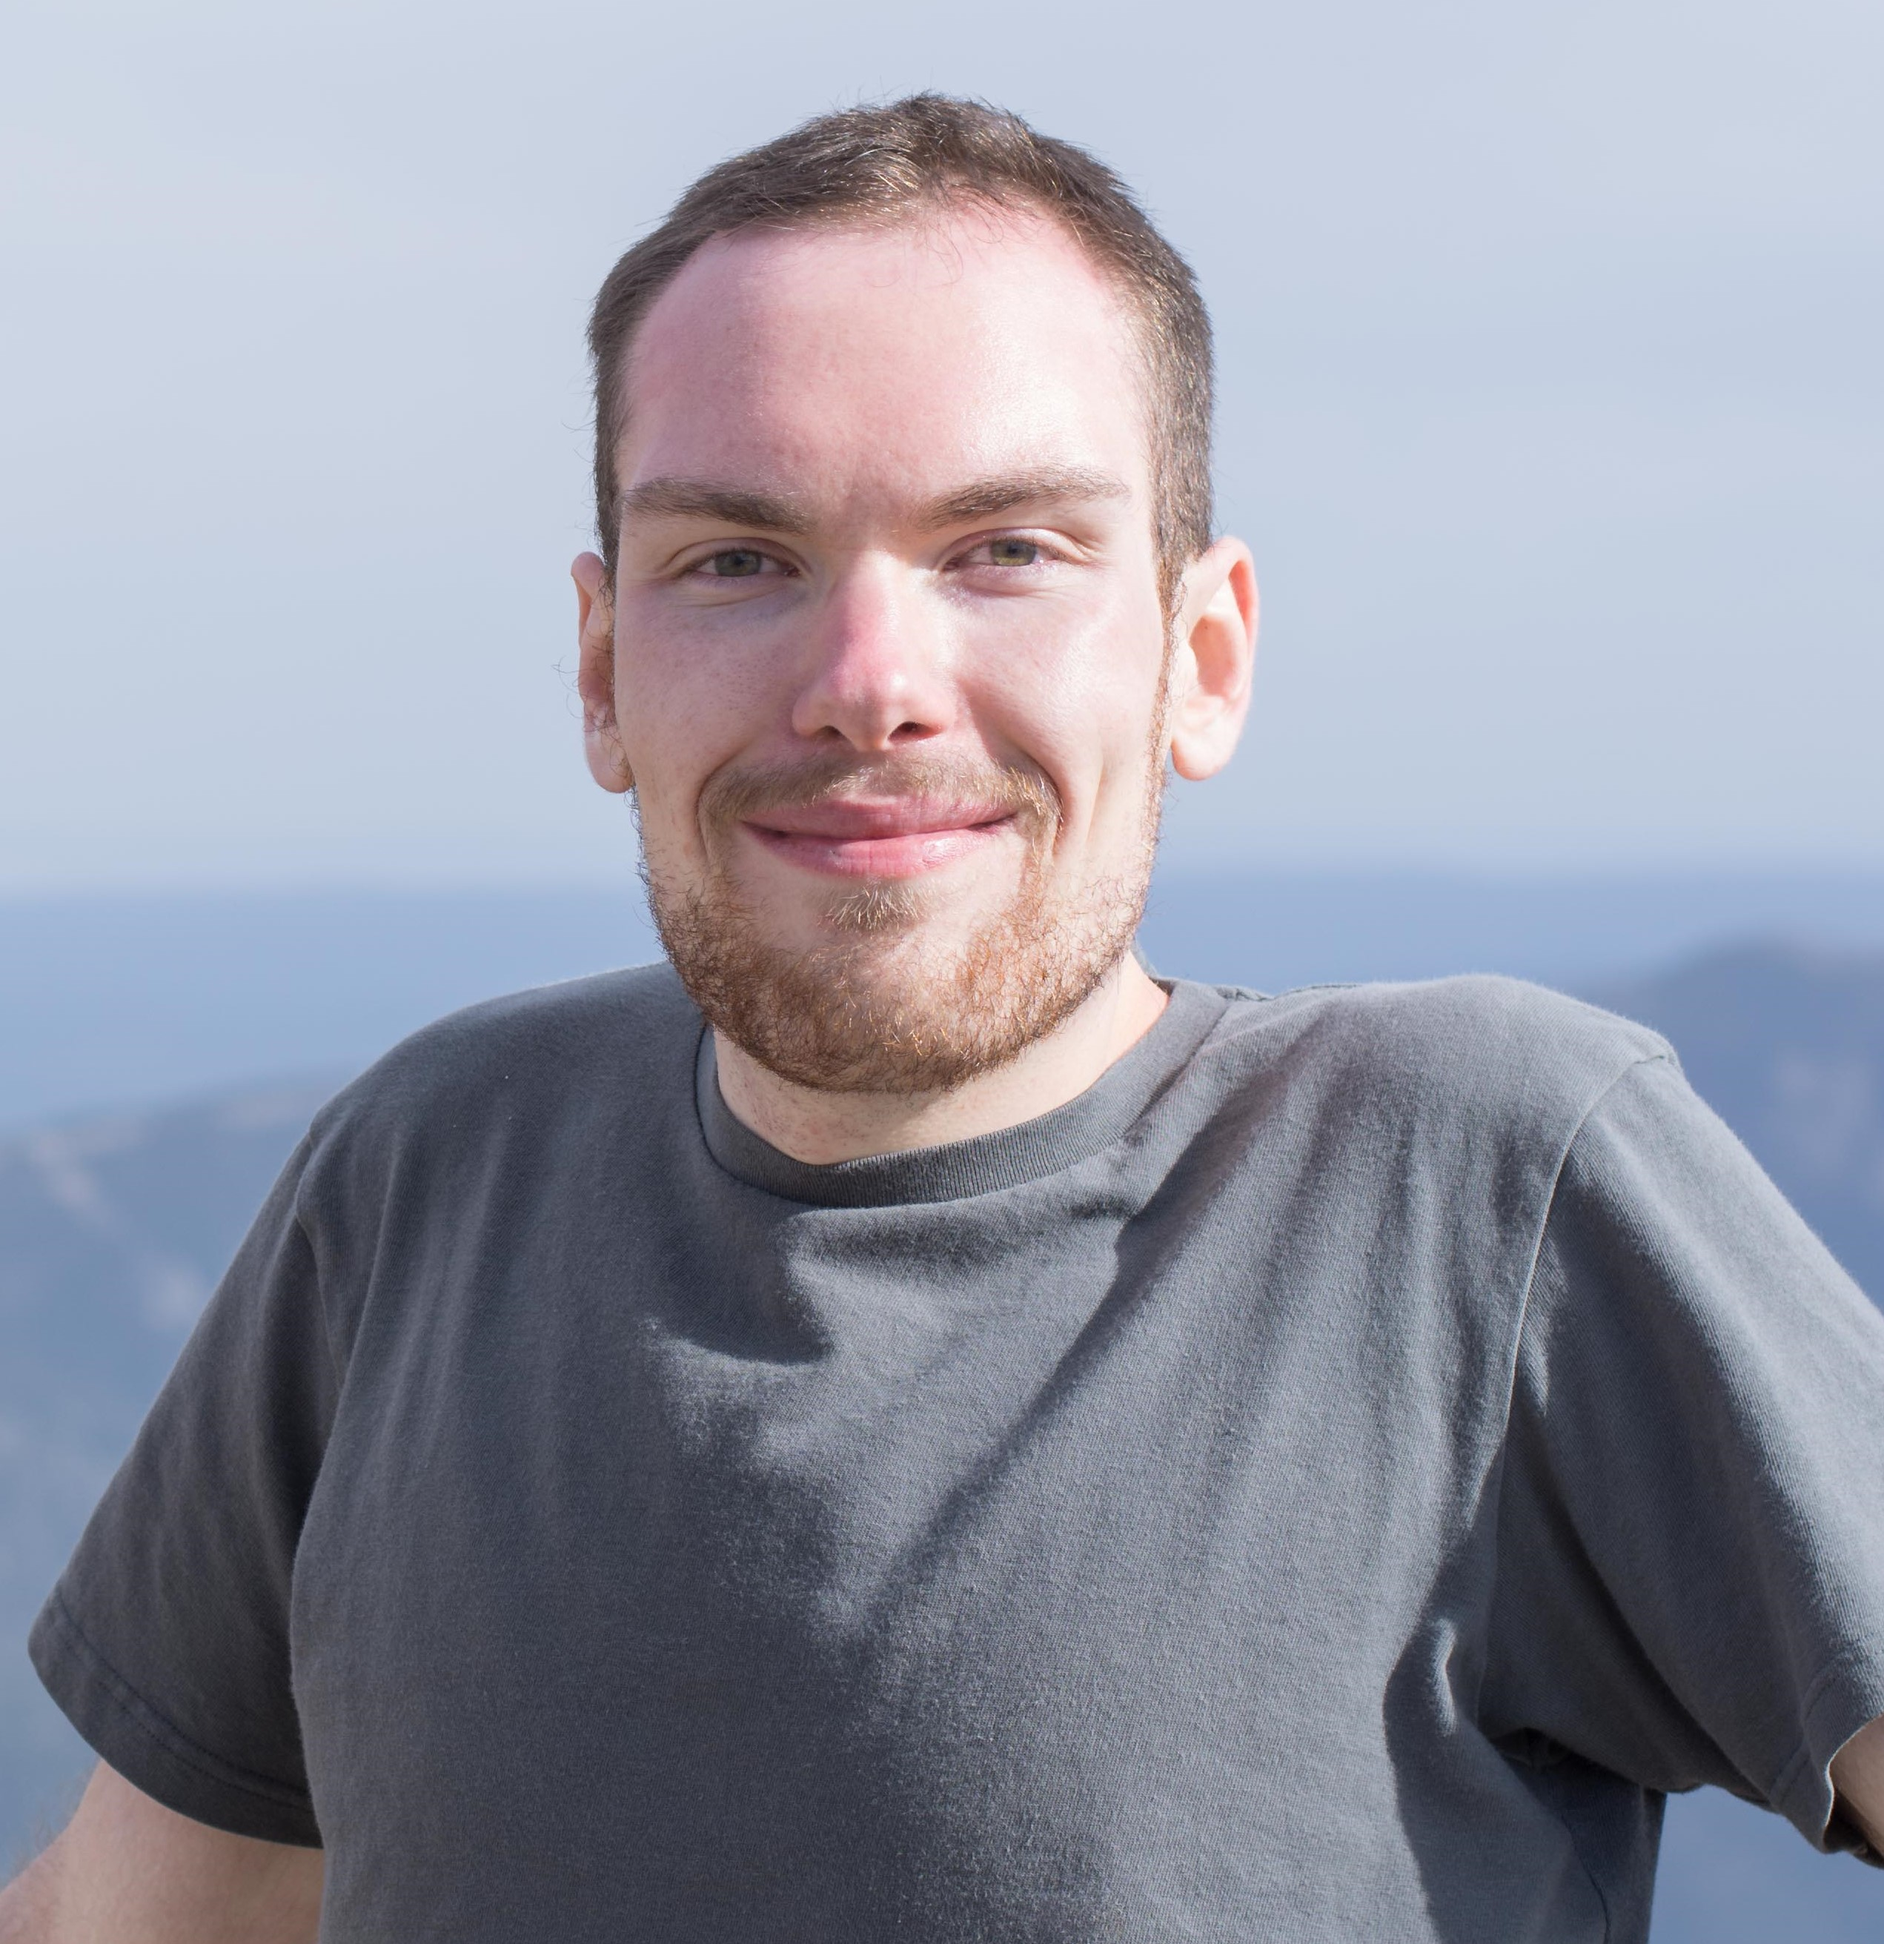
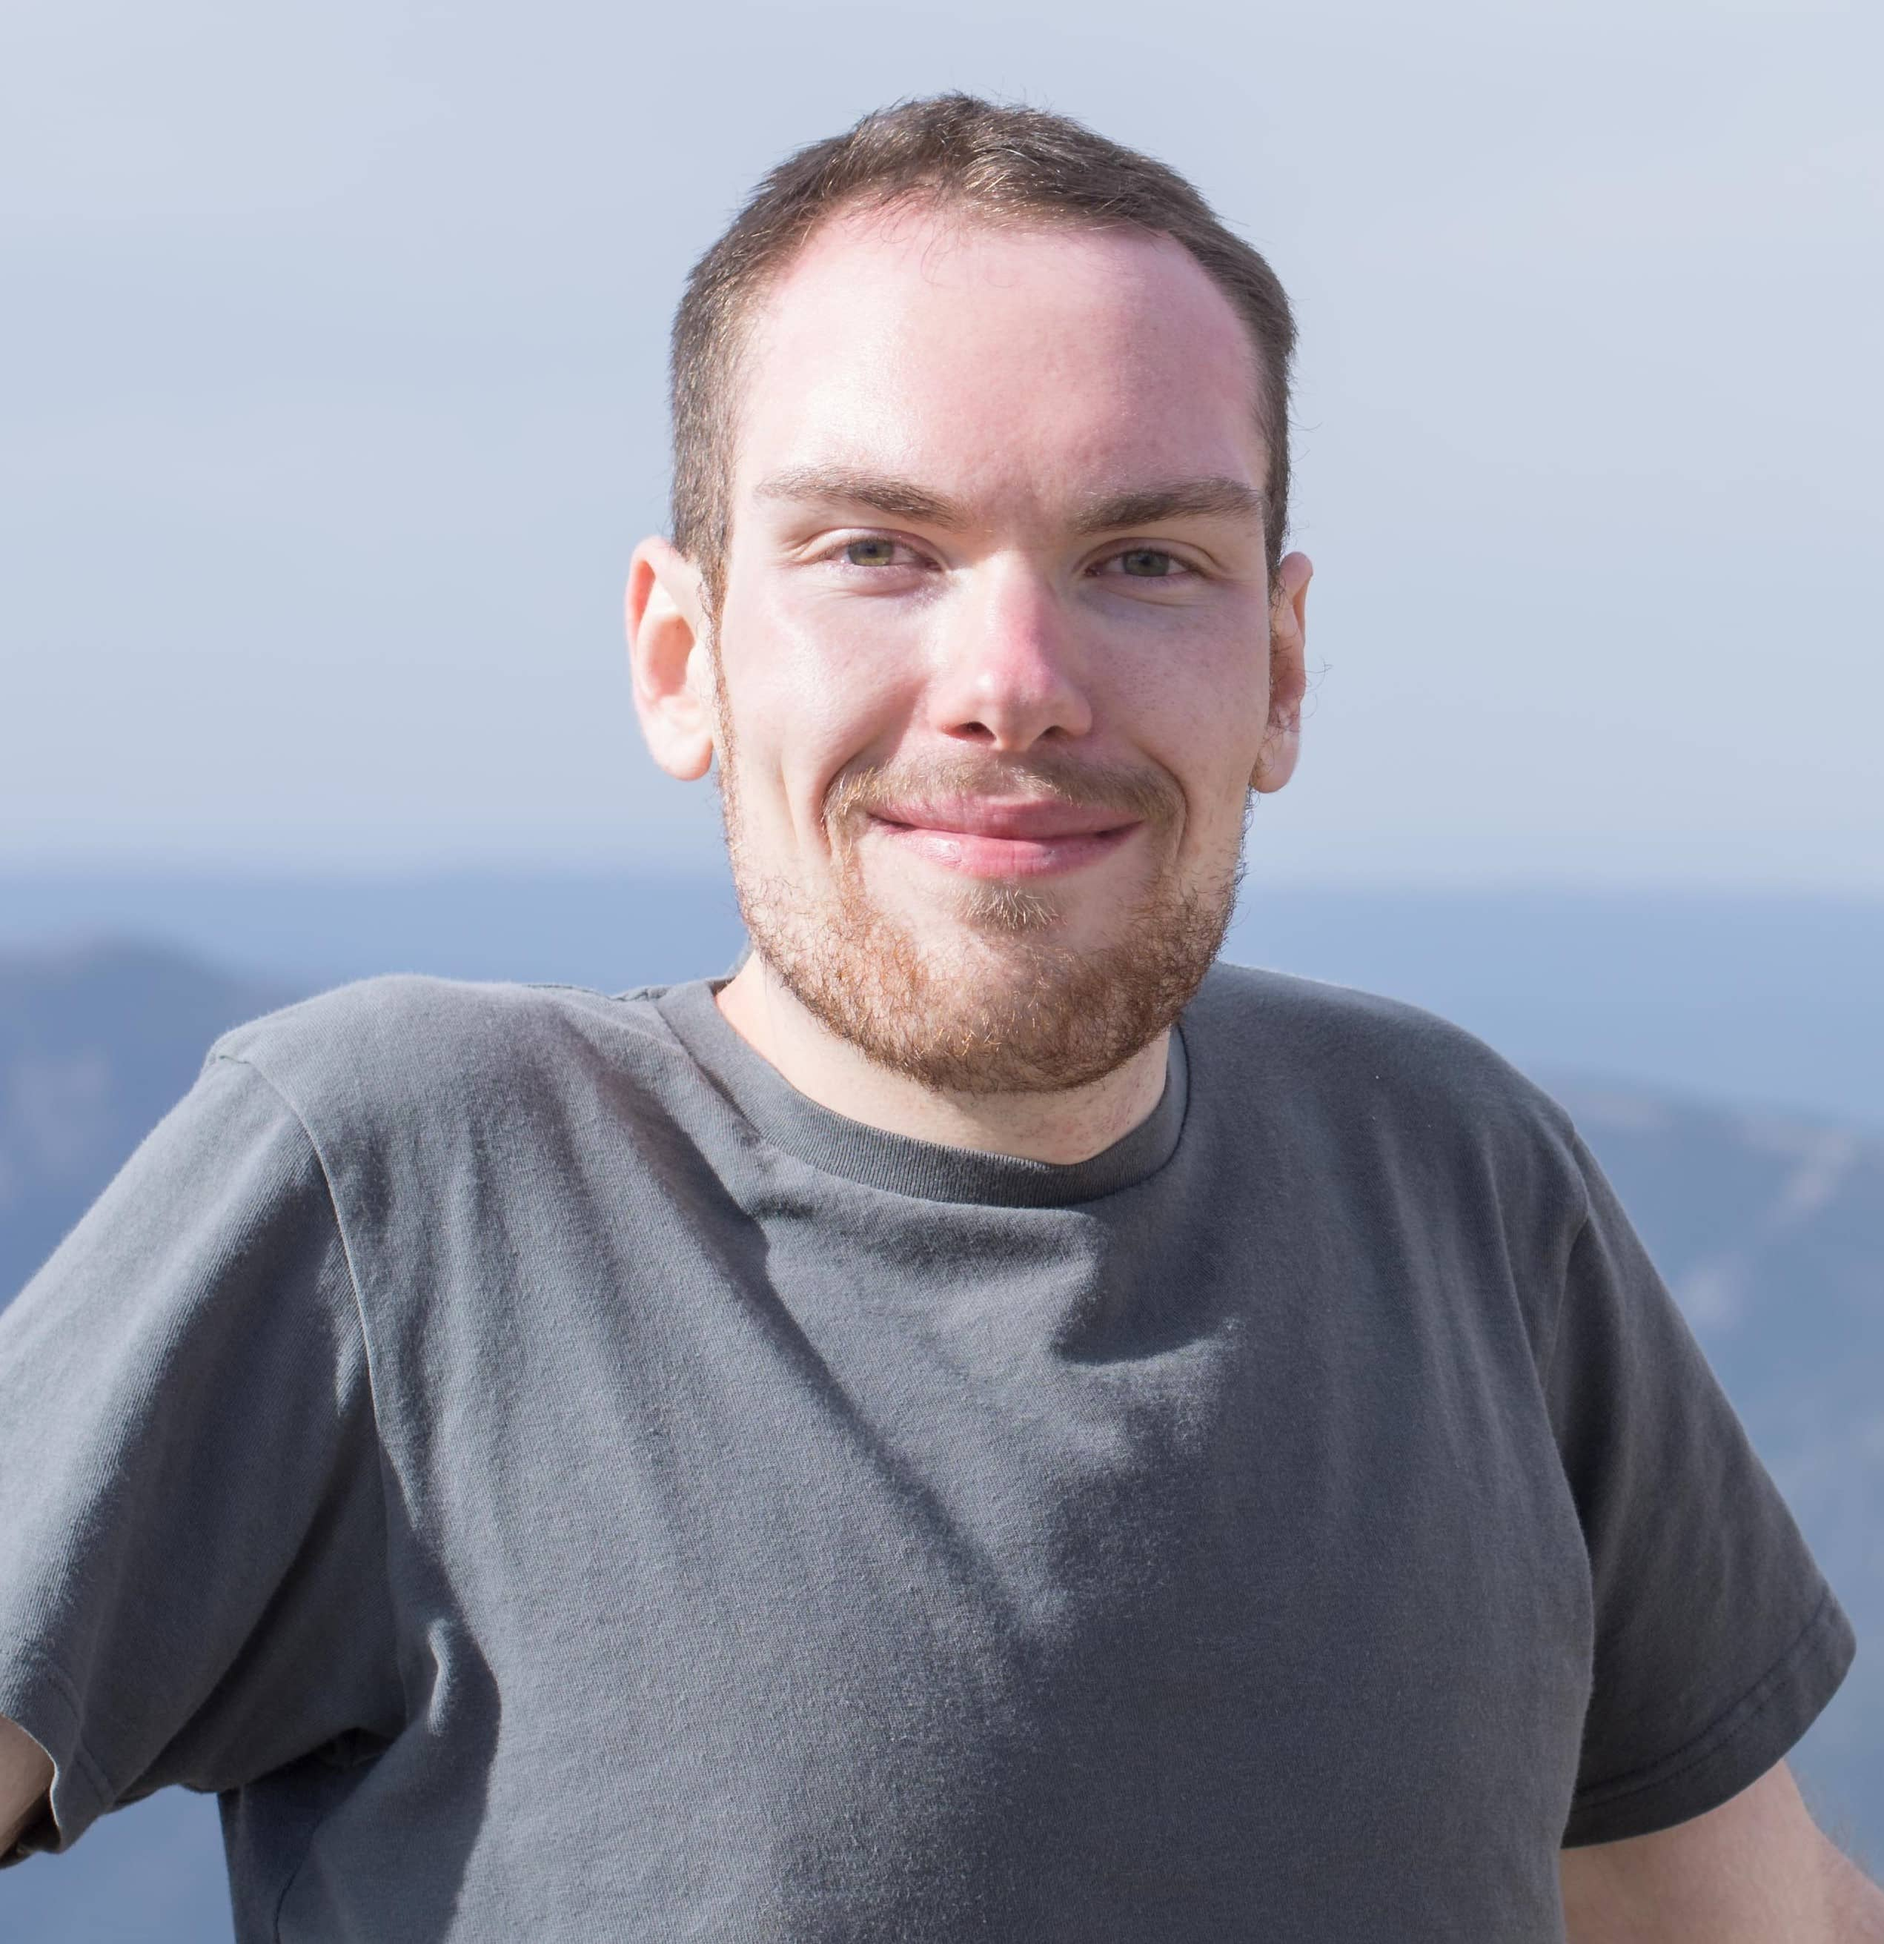
Update email
Compress portrait image

diff --git a/index.html b/index.html
@@ -35,7 +35,7 @@
                     </div>
 
                     <div id="role">
-                        Back End Web Dev
+                        Full Stack Developer
                     </div>
 
                 </div>
@@ -56,7 +56,7 @@
                             <p class="linkLabel">projects</p>
                         </a>
                         <a class="link-box link"
-                            href="https://drive.google.com/file/d/1Gq9kmv63iCWPFrOY4SnLOnN63uMtlbaw/view?usp=sharing"
+                            href="https://drive.google.com/file/d/1-l4pgVrcBHjNPl0KcpfQs4SZdYzBWc1C/view"
                             target="_blank">
                             <div class="link-box-img-cont">
                                 <img class="link-box-img" src="/assets/resume.svg" alt="resume-icon">
@@ -75,11 +75,11 @@
                             </div>
                             <p class="linkLabel">/in/cyrusmcc</p>
                         </a>
-                        <a class="link-box link" href="mailto:cyrusmcc@hotmail.com">
+                        <a class="link-box link" href="mailto:dev@cyrusmcc.com">
                             <div class="link-box-img-cont">
                                 <img class="link-box-img" src="/assets/email.svg" alt="email-icon">
                             </div>
-                            <p class="linkLabel">cyrusmcc@hotmail.com</p>
+                            <p class="linkLabel">dev@cyrusmcc.com</p>
                         </a>
 
 

diff --git a/static/style.css b/static/style.css
@@ -66,6 +66,15 @@ html, body {
 }
 
 #s1ImgCont1 {
+  display: -webkit-box;
+  display: -ms-flexbox;
+  display: flex;
+  -webkit-box-align: center;
+      -ms-flex-align: center;
+          align-items: center;
+  -webkit-box-pack: center;
+      -ms-flex-pack: center;
+          justify-content: center;
   border-radius: 50%;
   height: 7em;
   width: 7em;
@@ -86,8 +95,6 @@ html, body {
   width: 7.6em;
   -webkit-user-drag: none;
   margin-bottom: -0.4em;
-  -webkit-transform: scaleX(-1);
-          transform: scaleX(-1);
 }
 
 #nameRole {
@@ -835,8 +842,8 @@ html, body {
   }
   /* s1 - slide 1 */
   #s1ImgCont1 {
-    height: 2.5em;
-    width: 2.5em;
+    height: 2em;
+    width: 2em;
   }
   #portrait {
     width: 2.5em;

diff --git a/static/style.scss b/static/style.scss
@@ -83,6 +83,9 @@ html, body {
 }
 
 #s1ImgCont1 {
+    display: flex;
+    align-items: center;
+    justify-content: center;
     border-radius: 50%;
     height: 7em;
     width: 7em;
@@ -100,7 +103,6 @@ html, body {
     width: 7.6em;
     -webkit-user-drag: none;
     margin-bottom: -0.4em;
-    transform: scaleX(-1);    
 }
 
 #nameRole {
@@ -716,8 +718,8 @@ html, body {
     /* s1 - slide 1 */
 
     #s1ImgCont1 {
-        height: 2.5em;
-        width: 2.5em;
+        height: 2em;
+        width: 2em;
     }
 
     #portrait {
